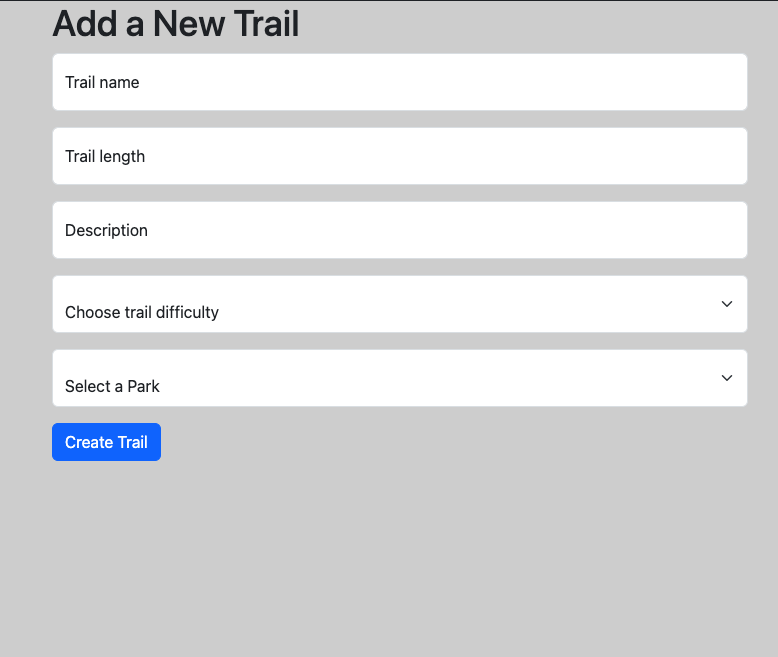
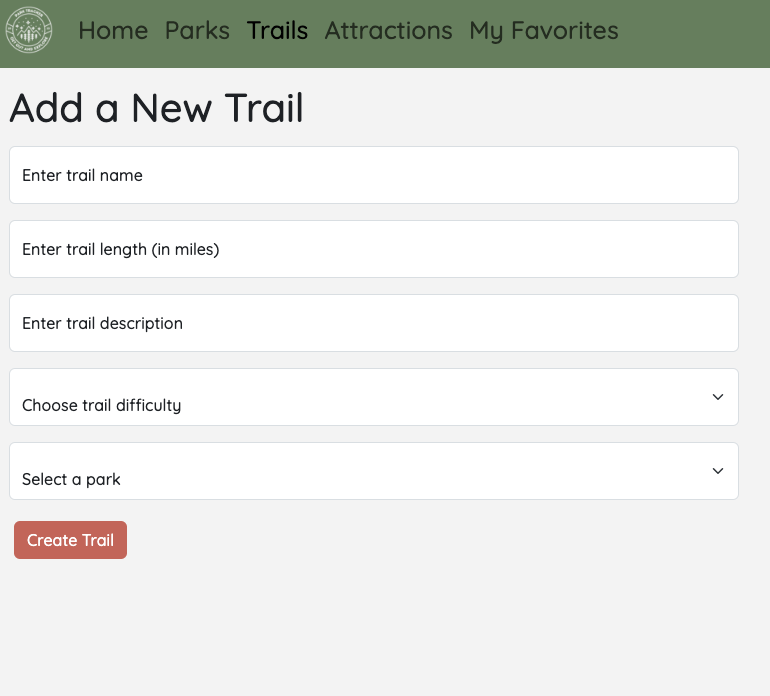
updated screenshots

diff --git a/components/trailcomment/TrailCommentForm.js b/components/trailcomment/TrailCommentForm.js
@@ -60,7 +60,7 @@ export default function TrailCommentForm({ obj, trailObj, onUpdate }) {
   };
 
   return (
-    <>
+    <div className="commentform">
       <h2> Add a Comment </h2>
       <Form onSubmit={handleSubmit}>
         <Form.Group className="mb-3">
@@ -82,7 +82,7 @@ export default function TrailCommentForm({ obj, trailObj, onUpdate }) {
         </Form.Group>
         <Button type="submit" className=" btn commentBtn">Submit</Button>
       </Form>
-    </>
+    </div>
   );
 }
 

diff --git a/styles/globals.css b/styles/globals.css
@@ -174,6 +174,11 @@ body {
   margin: 15px;
 }
 
+.parkform, .trailform, .siteform, .commentform {
+  max-width: 50%;
+  min-width: 600px;
+}
+
 .trailcardtext {
   background-color: whitesmoke;
 }
